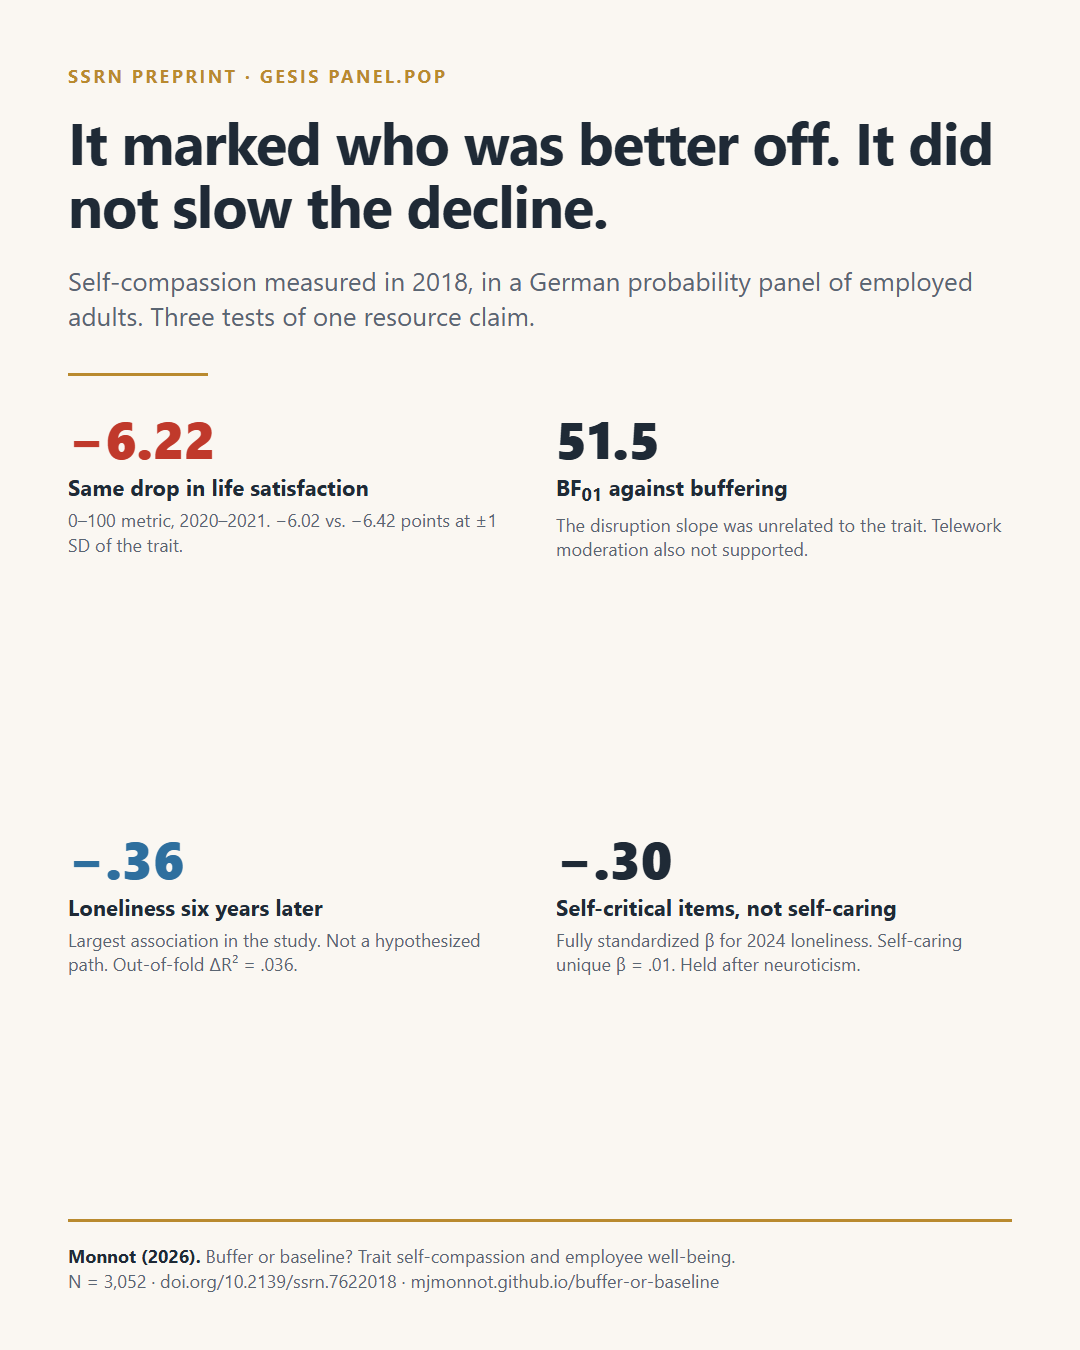
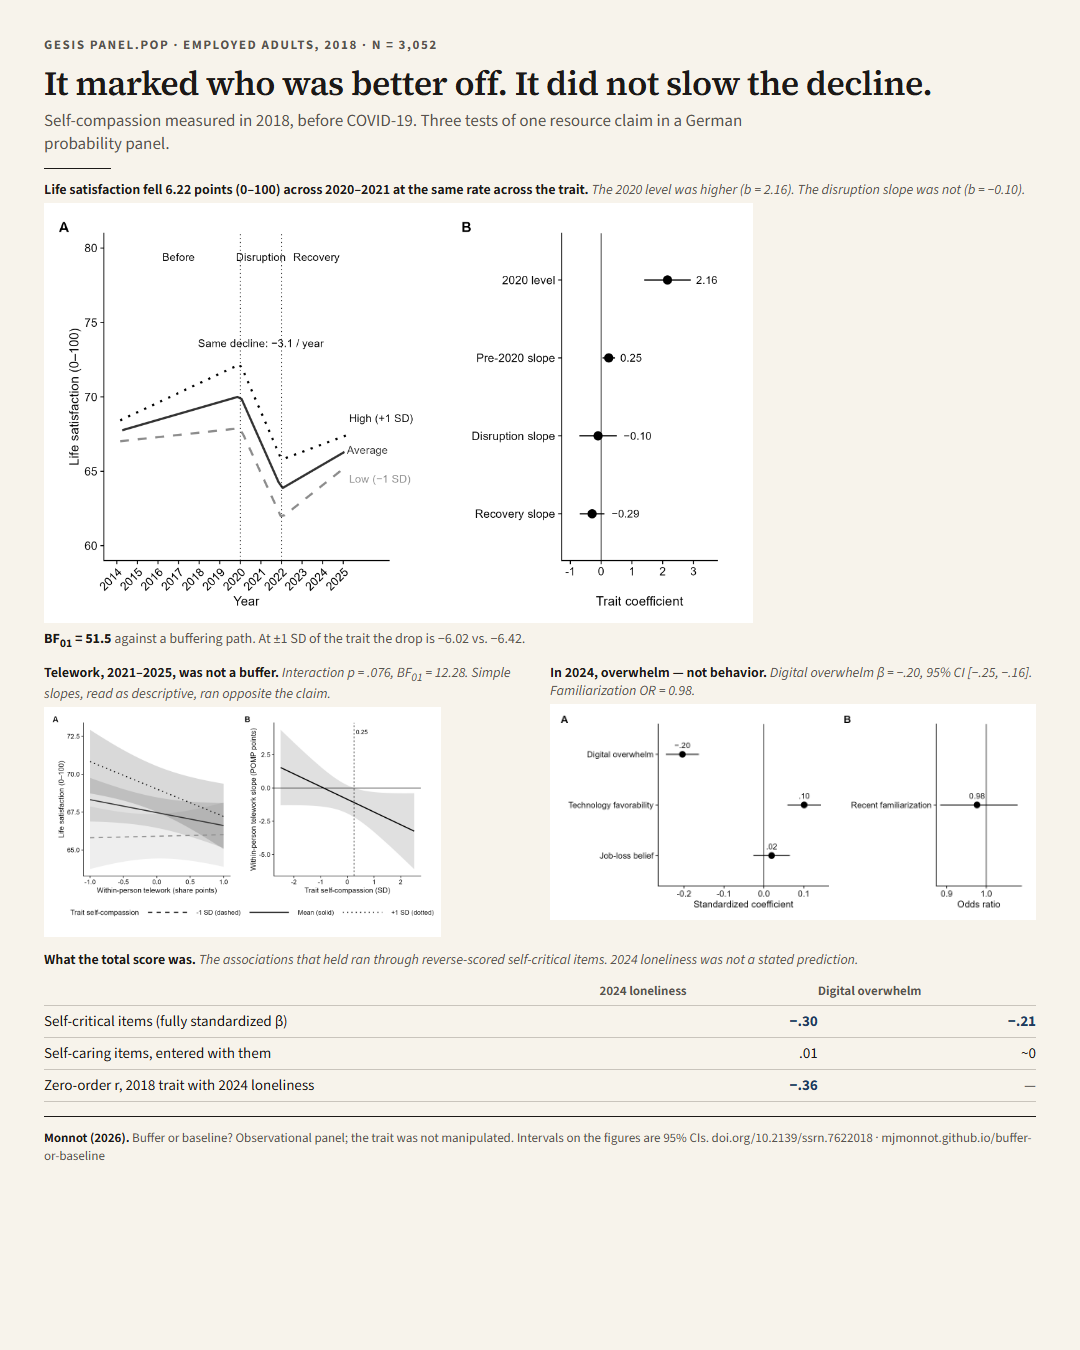
Rebuild LinkedIn card from the LEC Tufte design notes: paper, hairlines, paper figures without frames.

diff --git a/linkedin/card.html b/linkedin/card.html
@@ -3,109 +3,163 @@
 <head>
   <meta charset="utf-8">
   <title>LinkedIn infographic — Buffer or baseline?</title>
+  <link rel="preconnect" href="https://fonts.googleapis.com">
+  <link href="https://fonts.googleapis.com/css2?family=Source+Sans+3:ital,wght@0,400;0,650;0,700;1,400&family=Source+Serif+4:ital,wght@0,600;1,400&display=swap" rel="stylesheet">
   <style>
     :root {
-      --bg: #faf7f2;
-      --ink: #1f2a36;
-      --gray: #5a6572;
-      --red: #c0392b;
-      --blue: #2e6f9e;
-      --gold: #b98a2f;
-      --dark: #22303c;
-      --rule: #e3dccf;
+      --paper: #f7f3eb;
+      --ink: #1c1917;
+      --muted: #57534e;
+      --rule: #c9c4bc;
+      --navy: #1f3a5f;
     }
     * { box-sizing: border-box; margin: 0; padding: 0; }
     html, body { background: #ddd; }
     .card {
       width: 1080px;
       height: 1350px;
-      background: var(--bg);
+      background: var(--paper);
       color: var(--ink);
-      font-family: -apple-system, BlinkMacSystemFont, "Segoe UI", Roboto, Helvetica, Arial, sans-serif;
-      padding: 64px 68px 56px;
+      font-family: "Source Sans 3", Calibri, "Segoe UI", sans-serif;
+      padding: 36px 44px 28px;
       display: flex;
       flex-direction: column;
     }
     .kicker {
-      font-size: 18px;
+      font-size: 13px;
       font-weight: 700;
-      letter-spacing: 0.14em;
+      letter-spacing: 0.12em;
       text-transform: uppercase;
-      color: var(--gold);
-      margin-bottom: 22px;
+      color: var(--muted);
+      margin-bottom: 10px;
     }
     h1 {
-      font-size: 58px;
-      line-height: 1.08;
-      letter-spacing: -0.02em;
-      margin-bottom: 28px;
-    }
-    .dek {
-      font-size: 26px;
-      line-height: 1.35;
-      color: var(--gray);
-      margin-bottom: 40px;
-    }
-    .rule { height: 3px; background: var(--gold); margin: 0 0 36px; width: 140px; }
-    .stats {
-      display: grid;
-      grid-template-columns: 1fr 1fr;
-      gap: 28px 32px;
-      flex: 1;
-    }
-    .stat-value {
-      display: block;
-      font-size: 52px;
-      font-weight: 800;
-      font-variant-numeric: tabular-nums;
-      line-height: 1;
+      font-family: "Source Serif 4", Georgia, "Times New Roman", serif;
+      font-size: 34px;
+      font-weight: 600;
+      line-height: 1.12;
+      letter-spacing: -0.015em;
       margin-bottom: 8px;
     }
-    .red { color: var(--red); }
-    .blue { color: var(--blue); }
-    .stat-label { font-size: 22px; font-weight: 700; display: block; margin-bottom: 6px; }
-    .stat-sub { font-size: 18px; color: var(--gray); line-height: 1.35; }
+    .dek {
+      font-size: 17px;
+      line-height: 1.35;
+      color: var(--muted);
+      margin-bottom: 12px;
+      max-width: 42em;
+    }
+    hr.rule {
+      height: 1px;
+      width: 4.2rem;
+      background: var(--ink);
+      border: 0;
+      margin: 0 0 12px;
+    }
+    .cap {
+      font-size: 14px;
+      font-weight: 650;
+      color: var(--ink);
+      margin: 0 0 4px;
+      line-height: 1.3;
+    }
+    .cap em { font-style: italic; font-weight: 400; color: var(--muted); }
+    .fig { margin: 0 0 2px; }
+    .fig img { width: 100%; height: auto; display: block; }
+    .main-fig img { max-height: 420px; object-fit: contain; object-position: left top; }
+    .words {
+      font-size: 14px;
+      color: var(--muted);
+      margin: 4px 0 12px;
+      font-variant-numeric: tabular-nums;
+    }
+    .words b { color: var(--ink); font-weight: 700; }
+    .pair {
+      display: grid;
+      grid-template-columns: 1fr 1fr;
+      gap: 20px;
+      margin-bottom: 12px;
+    }
+    .pair img { max-height: 230px; object-fit: contain; object-position: left top; }
+    table {
+      width: 100%;
+      border-collapse: collapse;
+      font-size: 15px;
+      font-variant-numeric: tabular-nums;
+      margin: 4px 0 0;
+    }
+    th, td { text-align: left; padding: 5px 10px 5px 0; border-bottom: 1px solid var(--rule); }
+    th { font-weight: 650; color: var(--muted); font-size: 13px; }
+    td.num { text-align: right; padding-right: 0; width: 22%; }
+    td.held { color: var(--navy); font-weight: 700; }
     footer {
-      border-top: 3px solid var(--gold);
-      padding-top: 22px;
-      font-size: 18px;
-      color: var(--gray);
+      margin-top: 14px;
+      padding-top: 12px;
+      border-top: 1px solid var(--ink);
+      font-size: 13px;
+      color: var(--muted);
       line-height: 1.4;
     }
-    footer strong { color: var(--ink); }
+    footer strong { color: var(--ink); font-weight: 650; }
   </style>
 </head>
 <body>
   <article class="card">
-    <p class="kicker">SSRN preprint · GESIS Panel.pop</p>
+    <p class="kicker">GESIS Panel.pop · employed adults, 2018 · N = 3,052</p>
     <h1>It marked who was better off. It did not slow the decline.</h1>
-    <p class="dek">Self-compassion measured in 2018, in a German probability panel of employed adults. Three tests of one resource claim.</p>
-    <div class="rule"></div>
-    <div class="stats">
-      <div>
-        <span class="stat-value red">−6.22</span>
-        <span class="stat-label">Same drop in life satisfaction</span>
-        <span class="stat-sub">0–100 metric, 2020–2021. −6.02 vs. −6.42 points at ±1 SD of the trait.</span>
+    <p class="dek">Self-compassion measured in 2018, before COVID-19. Three tests of one resource claim in a German probability panel.</p>
+    <hr class="rule">
+
+    <p class="cap">Life satisfaction fell 6.22 points (0–100) across 2020–2021 at the same rate across the trait. <em>The 2020 level was higher (b = 2.16). The disruption slope was not (b = −0.10).</em></p>
+    <div class="fig main-fig">
+      <img src="../assets/fig2_ls_trajectories.png" alt="Implied life-satisfaction trajectories at high, average, and low trait self-compassion, 2014–2025, with trait coefficients on the 2020 level and three slopes.">
+    </div>
+    <p class="words"><b>BF<sub>01</sub> = 51.5</b> against a buffering path. At ±1 SD of the trait the drop is −6.02 vs. −6.42.</p>
+
+    <div class="pair">
+      <div class="panel">
+        <p class="cap">Telework, 2021–2025, was not a buffer. <em>Interaction p = .076, BF<sub>01</sub> = 12.28. Simple slopes, read as descriptive, ran opposite the claim.</em></p>
+        <div class="fig">
+          <img src="../assets/fig3_telework_moderation.png" alt="Within-person telework simple slopes at high, average, and low trait self-compassion, and the cross-level interaction with 95 percent intervals.">
+        </div>
       </div>
-      <div>
-        <span class="stat-value">51.5</span>
-        <span class="stat-label">BF<sub>01</sub> against buffering</span>
-        <span class="stat-sub">The disruption slope was unrelated to the trait. Telework moderation also not supported.</span>
-      </div>
-      <div>
-        <span class="stat-value blue">−.36</span>
-        <span class="stat-label">Loneliness six years later</span>
-        <span class="stat-sub">Largest association in the study. Not a hypothesized path. Out-of-fold ΔR² = .036.</span>
-      </div>
-      <div>
-        <span class="stat-value">−.30</span>
-        <span class="stat-label">Self-critical items, not self-caring</span>
-        <span class="stat-sub">Fully standardized β for 2024 loneliness. Self-caring unique β = .01. Held after neuroticism.</span>
+      <div class="panel">
+        <p class="cap">In 2024, overwhelm — not behavior. <em>Digital overwhelm β = −.20, 95% CI [−.25, −.16]. Familiarization OR = 0.98.</em></p>
+        <div class="fig">
+          <img src="../assets/fig4_h3_coefficients.png" alt="Standardized coefficients for digital overwhelm, technology favorability, and job-loss belief, and the odds ratio for recent familiarization, with 95 percent intervals.">
+        </div>
       </div>
     </div>
+
+    <p class="cap">What the total score was. <em>The associations that held ran through reverse-scored self-critical items. 2024 loneliness was not a stated prediction.</em></p>
+    <table>
+      <thead>
+        <tr>
+          <th></th>
+          <th class="num">2024 loneliness</th>
+          <th class="num">Digital overwhelm</th>
+        </tr>
+      </thead>
+      <tbody>
+        <tr>
+          <td>Self-critical items (fully standardized β)</td>
+          <td class="num held">−.30</td>
+          <td class="num held">−.21</td>
+        </tr>
+        <tr>
+          <td>Self-caring items, entered with them</td>
+          <td class="num">.01</td>
+          <td class="num">~0</td>
+        </tr>
+        <tr>
+          <td>Zero-order r, 2018 trait with 2024 loneliness</td>
+          <td class="num held">−.36</td>
+          <td class="num">—</td>
+        </tr>
+      </tbody>
+    </table>
+
     <footer>
-      <strong>Monnot (2026).</strong> Buffer or baseline? Trait self-compassion and employee well-being.<br>
-      N = 3,052 · doi.org/10.2139/ssrn.7622018 · mjmonnot.github.io/buffer-or-baseline
+      <strong>Monnot (2026).</strong> Buffer or baseline? Observational panel; the trait was not manipulated. Intervals on the figures are 95% CIs. doi.org/10.2139/ssrn.7622018 · mjmonnot.github.io/buffer-or-baseline
     </footer>
   </article>
 </body>

diff --git a/linkedin/slides.html b/linkedin/slides.html
@@ -3,55 +3,77 @@
 <head>
   <meta charset="utf-8">
   <title>LinkedIn carousel — Buffer or baseline?</title>
+  <link rel="preconnect" href="https://fonts.googleapis.com">
+  <link href="https://fonts.googleapis.com/css2?family=Source+Sans+3:ital,wght@0,400;0,650;0,700;1,400&family=Source+Serif+4:ital,wght@0,600;1,400&display=swap" rel="stylesheet">
   <style>
     :root {
-      --bg: #faf7f2; --ink: #1f2a36; --gray: #5a6572;
-      --red: #c0392b; --blue: #2e6f9e; --gold: #b98a2f; --dark: #22303c;
+      --paper: #f7f3eb; --ink: #1c1917; --muted: #57534e; --rule: #c9c4bc; --navy: #1f3a5f;
     }
     * { box-sizing: border-box; margin: 0; padding: 0; }
-    body { background: #ccc; padding: 24px; font-family: -apple-system, BlinkMacSystemFont, "Segoe UI", Roboto, Helvetica, Arial, sans-serif; }
+    body { background: #ccc; padding: 24px; font-family: "Source Sans 3", Calibri, sans-serif; }
     .row { display: flex; flex-direction: column; gap: 24px; align-items: center; }
     .slide {
-      width: 1080px; height: 1080px; background: var(--bg); color: var(--ink);
-      padding: 72px 76px 64px; display: flex; flex-direction: column;
+      width: 1080px; height: 1080px; background: var(--paper); color: var(--ink);
+      padding: 48px 52px 40px; display: flex; flex-direction: column;
     }
-    .kicker { font-size: 18px; font-weight: 700; letter-spacing: 0.14em; text-transform: uppercase; color: var(--gold); margin-bottom: 28px; }
-    h1 { font-size: 62px; line-height: 1.06; letter-spacing: -0.02em; }
-    .num { font-size: 120px; font-weight: 800; line-height: 1; font-variant-numeric: tabular-nums; margin: 12px 0 24px; }
-    .red { color: var(--red); } .blue { color: var(--blue); }
-    p { font-size: 28px; line-height: 1.35; color: var(--gray); max-width: 18em; }
-    footer { margin-top: auto; font-size: 20px; color: var(--gray); border-top: 3px solid var(--gold); padding-top: 20px; }
-    footer strong { color: var(--ink); }
+    .kicker {
+      font-size: 14px; font-weight: 700; letter-spacing: 0.12em; text-transform: uppercase;
+      color: var(--muted); margin-bottom: 12px;
+    }
+    h1 {
+      font-family: "Source Serif 4", Georgia, serif;
+      font-size: 36px; font-weight: 600; line-height: 1.12; letter-spacing: -0.015em;
+    }
+    .num { font-size: 56px; font-weight: 700; line-height: 1; font-variant-numeric: tabular-nums; margin: 8px 0 10px; color: var(--ink); }
+    p { font-size: 20px; line-height: 1.35; color: var(--muted); }
+    .fig { margin: 16px 0 auto; min-height: 0; }
+    .fig img { width: 100%; max-height: 520px; object-fit: contain; object-position: left top; display: block; }
+    footer {
+      font-size: 16px; color: var(--muted);
+      border-top: 1px solid var(--ink); padding-top: 14px;
+    }
+    footer strong { color: var(--ink); font-weight: 650; }
   </style>
 </head>
 <body>
   <div class="row">
     <article class="slide" id="s1">
-      <p class="kicker">1 / 4 · SSRN preprint</p>
+      <p class="kicker">1 / 4 · GESIS Panel.pop · N = 3,052</p>
       <h1>Buffer or baseline?</h1>
-      <p style="margin-top:28px">Self-compassion is supposed to mark who is better off <em>and</em> who loses less when a demand arrives. A German probability panel of employed adults (N = 3,052) separates the two.</p>
-      <footer><strong>Monnot (2026)</strong> · GESIS Panel.pop · doi.org/10.2139/ssrn.7622018</footer>
+      <p style="margin-top:14px">Self-compassion is supposed to mark who is better off and who loses less when a demand arrives. A German probability panel of employed adults separates the two.</p>
+      <div class="fig">
+        <img src="../assets/fig1_design_timeline.png" alt="Design timeline of measures in the GESIS Panel.pop, 2014–2025, and sample flow into the analytic N of 3,052.">
+      </div>
+      <footer><strong>Monnot (2026)</strong> · doi.org/10.2139/ssrn.7622018</footer>
     </article>
     <article class="slide" id="s2">
       <p class="kicker">2 / 4 · Hypothesis 1 not supported</p>
-      <div class="num red">−6.22</div>
+      <div class="num">−6.22</div>
       <h1>The decline was shared.</h1>
-      <p>Life satisfaction, 0–100, across 2020–2021. −6.02 points at −1 SD of the trait; −6.42 at +1 SD. BF<sub>01</sub> = 51.52 against a buffering path.</p>
-      <footer>Telework moderation (2021–2025) was also not supported, BF<sub>01</sub> = 12.28.</footer>
+      <p>Life satisfaction, 0–100, across 2020–2021. −6.02 at −1 SD of the trait; −6.42 at +1 SD. BF<sub>01</sub> = 51.52 against a buffering path.</p>
+      <div class="fig">
+        <img src="../assets/fig2_ls_trajectories.png" alt="Implied life-satisfaction trajectories and trait coefficients on the 2020 level and three slopes.">
+      </div>
+      <footer>Higher 2020 level (b = 2.16). No reliable association with the disruption slope.</footer>
     </article>
     <article class="slide" id="s3">
-      <p class="kicker">3 / 4 · The association that held</p>
-      <div class="num blue">−.36</div>
-      <h1>Loneliness six years later.</h1>
-      <p>2018 score with 2024 loneliness — the largest association in the study, and not a hypothesized path. Digital overwhelm β = −.20. Out-of-fold ΔR² = .036 for loneliness.</p>
+      <p class="kicker">3 / 4 · Hypothesis 2 not supported</p>
+      <h1>Telework was not a buffer.</h1>
+      <p style="margin-top:10px">Within-person telework share, 2021–2025. Interaction b = −0.96, p = .076, BF<sub>01</sub> = 12.28. Simple slopes, read as descriptive, ran opposite the hypothesized buffer. Intervals are 95% CIs.</p>
+      <div class="fig">
+        <img src="../assets/fig3_telework_moderation.png" alt="Telework simple slopes by trait self-compassion and the cross-level interaction.">
+      </div>
       <footer>Observational panel. Not an intervention effect.</footer>
     </article>
     <article class="slide" id="s4">
-      <p class="kicker">4 / 4 · What the total score was</p>
-      <div class="num">−.30</div>
-      <h1>Self-criticism, not self-kindness.</h1>
-      <p>Fully standardized β for 2024 loneliness on the reverse-scored self-critical items. Self-caring unique β = .01. Six-item neuroticism control: β = −.24.</p>
-      <footer>Paper and companion · doi.org/10.2139/ssrn.7622018 · mjmonnot.github.io/buffer-or-baseline</footer>
+      <p class="kicker">4 / 4 · What held, and what the score was</p>
+      <div class="num">−.36</div>
+      <h1>Loneliness six years later.</h1>
+      <p>2018 trait with 2024 loneliness — largest association, not hypothesized. Overwhelm β = −.20, 95% CI [−.25, −.16]. Self-critical items β = −.30; self-caring β = .01.</p>
+      <div class="fig">
+        <img src="../assets/fig4_h3_coefficients.png" alt="Hypothesis 3 coefficients for 2024 technology appraisals and familiarization.">
+      </div>
+      <footer><strong>Paper and companion</strong> · doi.org/10.2139/ssrn.7622018 · mjmonnot.github.io/buffer-or-baseline</footer>
     </article>
   </div>
 </body>
